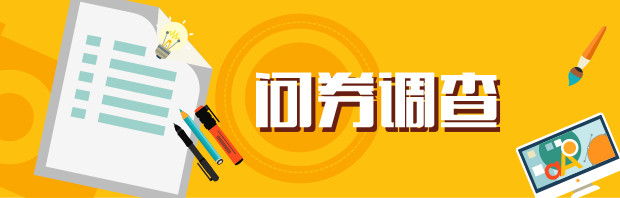
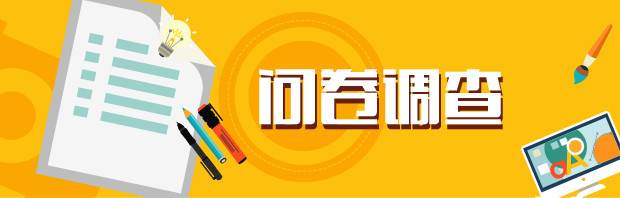
优化

diff --git a/ng-wechat/src/app/wechat/activities/questionnaire/submit-success/submit-success.component.html b/ng-wechat/src/app/wechat/activities/questionnaire/submit-success/submit-success.component.html
@@ -5,7 +5,7 @@
                 <i class="weui-icon-success weui-icon_msg"></i>
                 <div class="icon-box__ctn">
                     <h3 class="icon-box__title">提交成功</h3>
-                    <p class="icon-box__desc">需求预测提交成功</p>
+                    <p class="icon-box__desc">问卷调查提交成功</p>
                 </div>
             </div>
         </div>

diff --git a/ng-wechat/src/app/wechat/activities/questionnaire/submit-success/submit-success.component.ts b/ng-wechat/src/app/wechat/activities/questionnaire/submit-success/submit-success.component.ts
@@ -4,8 +4,7 @@ import { Router } from '@angular/router';
 @Component({
     moduleId: module.id,
     selector: 'submit-success',
-    templateUrl: 'submit-success.component.html',
-    styleUrls: ['submit-success.component.scss']
+    templateUrl: 'submit-success.component.html'
 })
 export class SubmitSuccessComponent {
     constructor(private router: Router) {

diff --git a/ng-wechat/src/app/wechat/activities/questionnaire/questionnaire-detail/questionnaire-detail.component.ts b/ng-wechat/src/app/wechat/activities/questionnaire/questionnaire-detail/questionnaire-detail.component.ts
@@ -152,6 +152,7 @@ export class QuestionnaireDetailComponent extends AppComponentBase implements On
     //     }
     // }
     //#endregion
+
     onRadioClick(index) {
         if (this.questionnaireList[index].value) {
             return;
